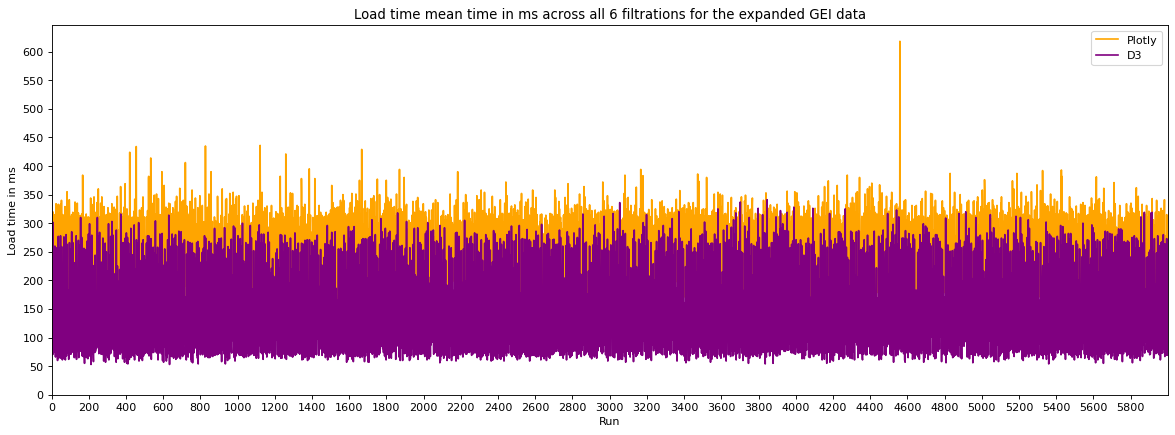
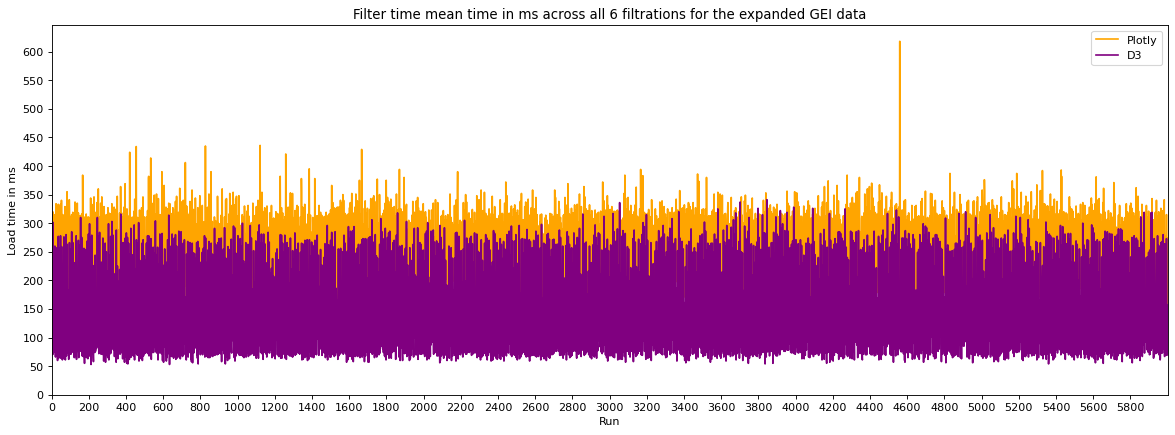
fixed spelling error in graph title

diff --git a/experimentData/run2-1000/dataScripts/filterLine.py b/experimentData/run2-1000/dataScripts/filterLine.py
@@ -2,8 +2,8 @@ import pandas as pd
 import matplotlib.pyplot as plt
 
 # Read your data from file
-plotly = "../CulledData/plotly/org/plotly_org_filterDiff_culled.txt"
-d3 = "../CulledData/d3/org/d3_org_filterDiff_culled.txt"
+plotly = "../plotly/diffs/exp/plotly_exp_filterDiff.txt"
+d3 = "../d3/diffs/exp/d3_exp_filterDiff.txt"
 plDf = pd.read_csv(plotly, header=None, names=['epoch'])
 d3Df = pd.read_csv(d3, header=None, names=['epoch'])
 # range from 0 to the length of the data, aka, amount of runs.
@@ -11,7 +11,7 @@ d3Df = pd.read_csv(d3, header=None, names=['epoch'])
 # y = df['Time'].tolist()  # because the following plot takes list of data
 # searchWordXticks = df['SearchWord'].tolist()
 
-x = range(0, 5999)
+x = range(0, 6000)
 PlY = plDf['epoch'].tolist()
 d3Y = d3Df['epoch'].tolist()
 
@@ -27,7 +27,7 @@ plt.plot(x, PlY, 'orange')
 plt.plot(x, d3Y, 'purple')
 
 plt.ylim(ymin=0)
-plt.xlim(xmin=0, xmax=5999)
+plt.xlim(xmin=0, xmax=6000)
 
 
 plt.xticks(range(0,6000,200))
@@ -37,10 +37,10 @@ plt.yticks(range(0, max(PlY), 50))
 plt.xlabel('Run')
 plt.ylabel('Load time in ms')
 # plt.title('load-time for ' + str(len(df)) + ' runs')
-plt.title('Load time mean time in ms across all 6 filtrations for the original GEI data')
+plt.title('Filter time mean time in ms across all 6 filtrations for the expanded GEI data')
 plt.grid(False)
 plt.legend(['Plotly', 'D3'])
-plt.savefig('../CulledData/graphs/allFilterMeanOrg_culled.png', bbox_inches='tight')
+plt.savefig('allFilterMeanExp2.png', bbox_inches='tight')
 plt.show()
 
 # for i in range(5):
